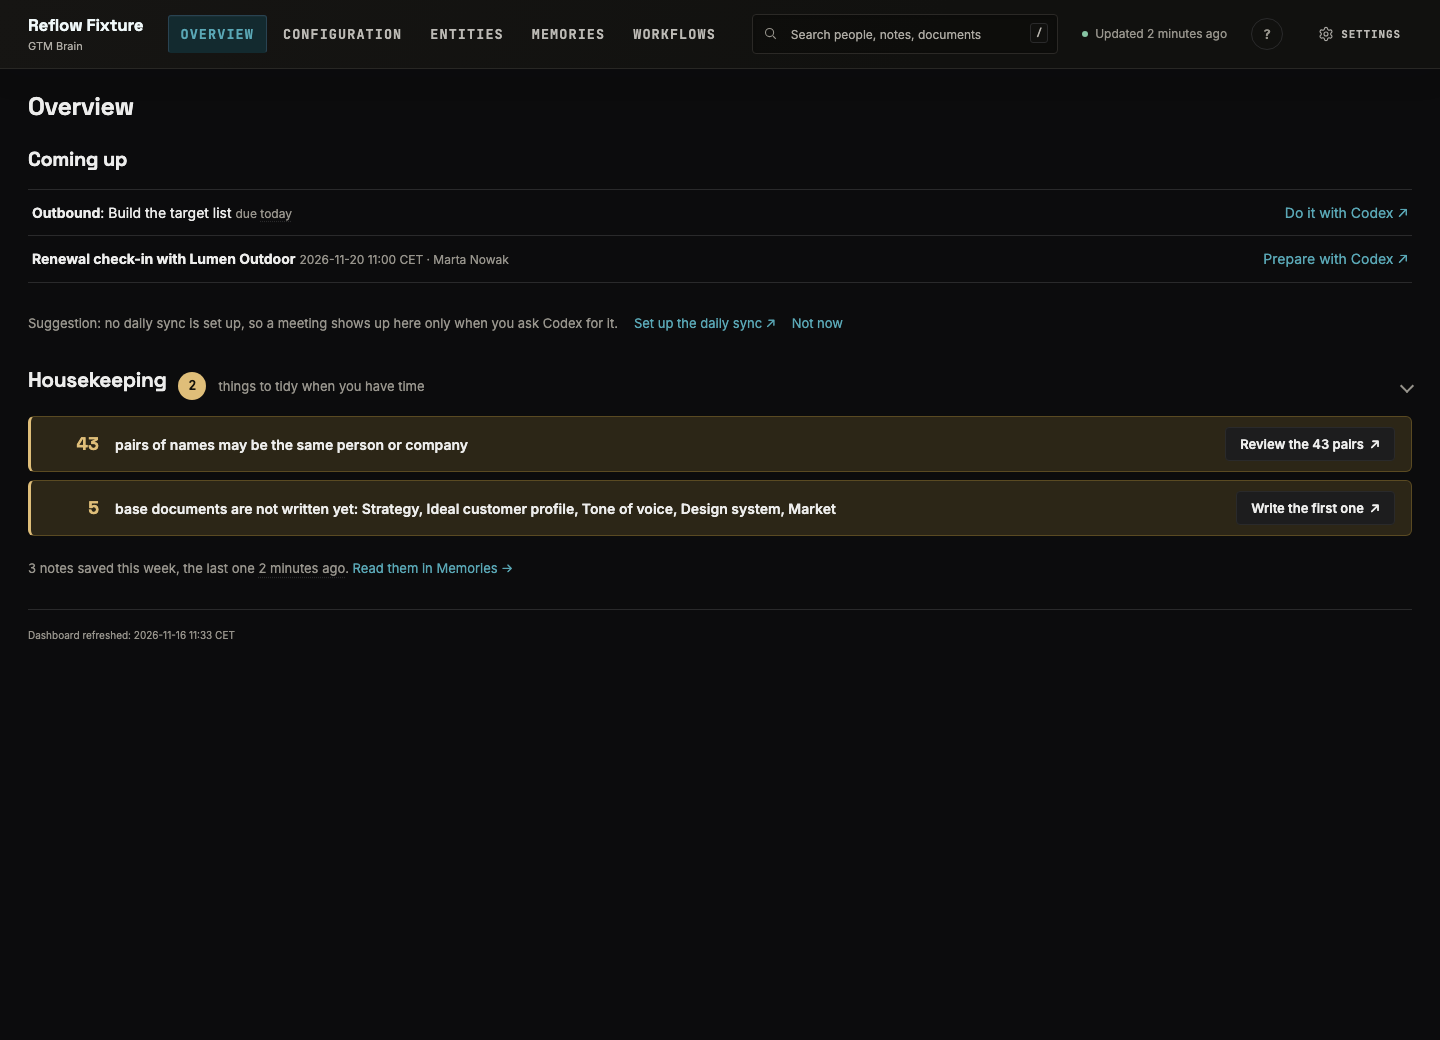
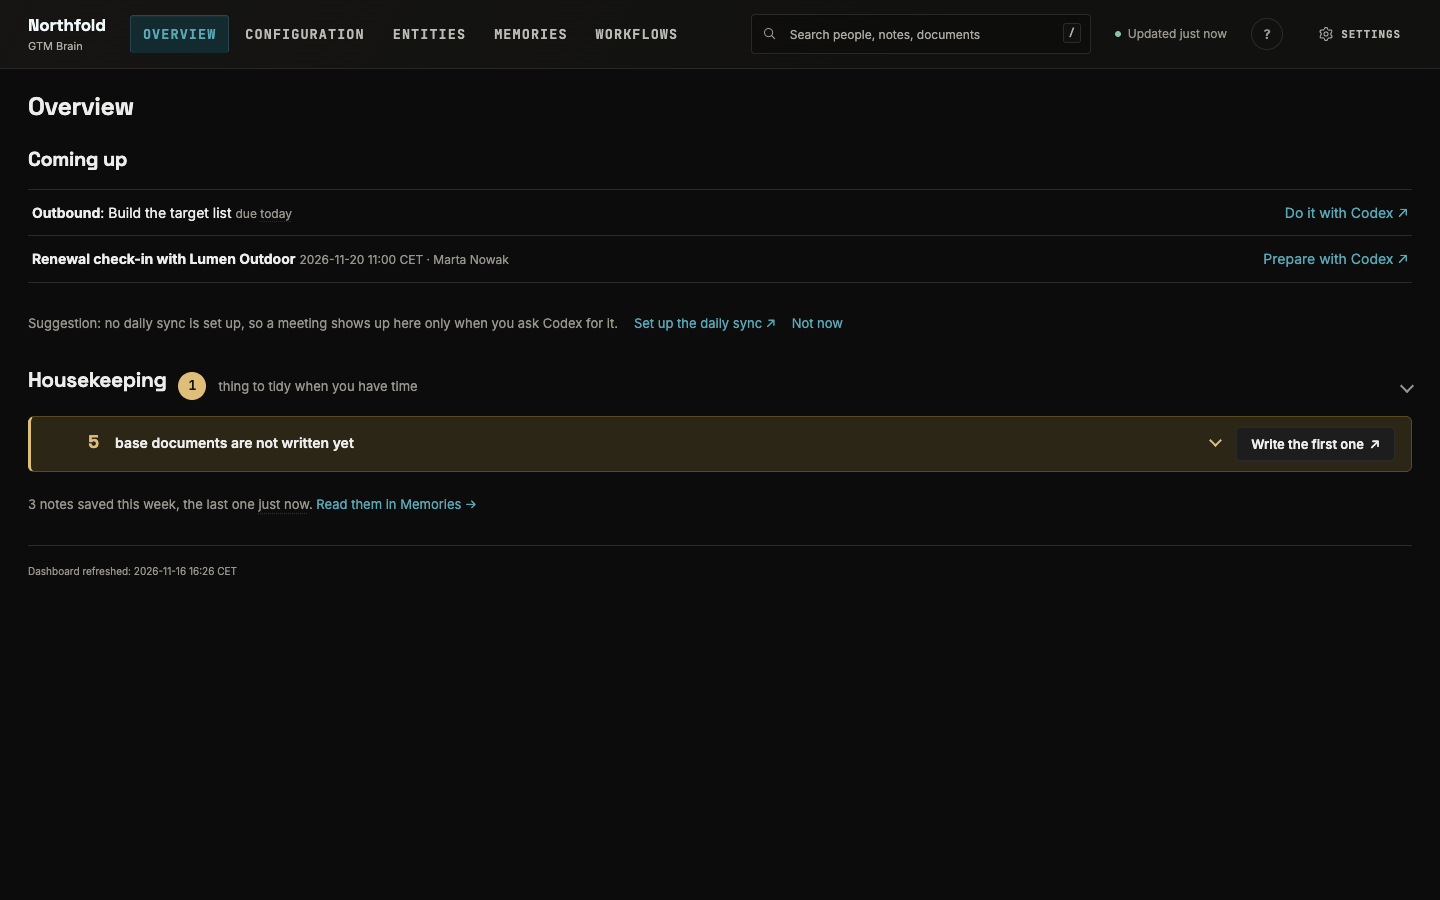
Memories tab: one filter box, When and Show; the rest behind More filters
The toolbar keeps the filter box, When and Show. Kind, Who, Person or company,
Topic and Project move into a More filters disclosure that is closed at first,
shows a count of the folded filters in use, and sits beside one Clear.
Dashboard screenshots retaken from the current UI on the fixture brain, which
is now named Northfold; README gains Rules, Schema and an open document.

diff --git a/plugins/gtm-brain/scripts/gtm-brain-render/home.template.html b/plugins/gtm-brain/scripts/gtm-brain-render/home.template.html
@@ -344,7 +344,7 @@ time.pl-when{white-space:nowrap;cursor:help;text-decoration:underline dotted var
 .mem-form textarea{font:inherit;font-size:14.5px;line-height:1.55;color:var(--ink);background:var(--surface);border:1px solid var(--rule);border-radius:4px;padding:9px 11px;width:100%;box-sizing:border-box;resize:vertical;min-height:96px}.mem-form textarea:focus-visible{outline:2px solid var(--accent);outline-offset:1px;border-color:var(--accent)}.mem-cands{display:flex;flex-wrap:wrap;gap:6px 8px;align-items:center;margin:0 0 12px}.mem-cands .filter-pill:disabled{opacity:.55;cursor:default}
 .mem-history{margin:4px 0 10px;padding:0 0 0 18px;font-size:13.5px;color:var(--muted);max-width:75ch}.mem-history li{margin:4px 0}.mem-hist,.mem-same .linkbtn{font-size:12.5px}.mem-flash{margin:0 0 12px}
 @media(max-width:900px){.mem-menu{right:auto;left:0}}
-.mem-filters{align-items:flex-start}.mem-filters .explore-search input{padding-left:34px;max-width:none}.mem-selects{display:flex;flex-wrap:wrap;gap:8px 14px;flex-basis:100%}.mem-card{padding:16px 0}.mem-card .pl-text{font-size:15px;line-height:1.6;margin:6px 0 6px;max-width:86ch}.mem-card.focus{box-shadow:inset 3px 0 0 var(--accent);padding-left:14px;background:var(--surface)}.mem-topic{color:var(--muted);font-size:11.5px}.mem-topic:before{content:"in ";opacity:.7}.mem-people{display:flex;flex-wrap:wrap;gap:6px;margin:6px 0}.mem-people .tag{border:0;font:inherit;font-size:12px;cursor:pointer;background:var(--accent-soft);color:var(--accent)}.mem-people .tag:hover{box-shadow:inset 0 0 0 1px var(--accent)}.mem-older{display:block;margin:18px auto 4px;padding:9px 18px}.mem-docs{margin-top:26px;padding-top:14px;border-top:1px solid var(--rule)}
+.mem-filters{display:block}.mem-filters .explore-search input{padding-left:34px;max-width:none}.mem-top{display:flex;flex-wrap:wrap;align-items:flex-end;gap:10px 12px}.mem-top .explore-search{flex:1 1 320px}.mem-filters label{flex-direction:column;align-items:stretch;gap:3px;font-size:11px}.mem-filters select,.mem-filters label input{font-size:12.5px;border-radius:4px;min-width:150px}.mem-filters select:focus-visible,.mem-filters label input:focus-visible,.mem-morebtn:focus-visible,.mem-clear:focus-visible{outline:2px solid var(--accent);outline-offset:1px}.mem-morebtn{font:500 12.5px var(--body);color:var(--muted);background:var(--surface);border:1px solid var(--rule);border-radius:4px;padding:7px 12px;cursor:pointer;white-space:nowrap}.mem-morebtn:after{content:"";display:inline-block;width:6px;height:6px;margin:0 0 2px 8px;border-right:1.5px solid currentColor;border-bottom:1.5px solid currentColor;transform:rotate(45deg)}.mem-morebtn[aria-expanded="true"]:after{transform:rotate(-135deg);margin-bottom:-2px}.mem-morebtn:hover{color:var(--ink);border-color:var(--muted)}.mem-morebtn.on{color:var(--accent);border-color:var(--accent);background:var(--accent-soft)}.mem-clear{padding:7px 2px;font-size:12.5px}.mem-clear[hidden],.mem-fold[hidden]{display:none}.mem-fold{display:flex;flex-direction:column;gap:12px;margin-top:12px;padding:12px 14px;border:1px solid var(--rule);border-radius:4px;background:var(--surface)}.mem-fold select,.mem-fold label input{background:var(--paper)}.mem-selects{display:flex;flex-wrap:wrap;gap:10px 14px}.mem-card{padding:16px 0}.mem-card .pl-text{font-size:15px;line-height:1.6;margin:6px 0 6px;max-width:86ch}.mem-card.focus{box-shadow:inset 3px 0 0 var(--accent);padding-left:14px;background:var(--surface)}.mem-topic{color:var(--muted);font-size:11.5px}.mem-topic:before{content:"in ";opacity:.7}.mem-people{display:flex;flex-wrap:wrap;gap:6px;margin:6px 0}.mem-people .tag{border:0;font:inherit;font-size:12px;cursor:pointer;background:var(--accent-soft);color:var(--accent)}.mem-people .tag:hover{box-shadow:inset 0 0 0 1px var(--accent)}.mem-older{display:block;margin:18px auto 4px;padding:9px 18px}.mem-docs{margin-top:26px;padding-top:14px;border-top:1px solid var(--rule)}
 .wf-card{padding:16px 0}.wf-card h3 .linkbtn{font-size:16px}.wf-about{margin:2px 0 8px;font-size:14px;max-width:80ch}.wf-wait{margin:8px 0 0;padding:8px 12px;border-left:3px solid var(--amber);background:var(--amber-soft);border-radius:3px;font-size:13px}.wf-detail{margin-top:14px;padding:14px 16px;background:var(--paper);border:1px solid var(--rule);border-radius:4px}.wf-detail h4{font-family:var(--label);font-size:10.5px;letter-spacing:.06em;text-transform:uppercase;color:var(--muted);margin:0 0 8px;font-weight:600}.wf-detail h4:not(:first-child){margin-top:16px}
 .wf-steps{list-style:none;counter-reset:step;margin:0;padding:0}.wf-steps li{counter-increment:step;position:relative;padding:5px 0 12px 38px;font-size:13.5px}.wf-steps li:before{content:counter(step);position:absolute;left:0;top:2px;width:24px;height:24px;border-radius:50%;border:1px solid var(--rule);display:grid;place-items:center;font-family:var(--mono);font-size:11px;color:var(--muted);background:var(--surface)}.wf-steps li:not(:last-child):after{content:"";position:absolute;left:12px;top:28px;bottom:0;width:1px;background:var(--rule)}.wf-steps li.here:before{border-color:var(--green);color:var(--green);background:var(--green-soft)}.wf-steps li.here>span:first-child{font-weight:600}
 .cfg-tabs{display:flex;gap:4px;flex-wrap:wrap;margin:0 0 18px;border-bottom:1px solid var(--rule)}.cfg-tabs button{display:inline-flex;align-items:center;gap:8px;border:0;border-bottom:2px solid transparent;background:none;color:var(--muted);font:500 14px var(--body);padding:10px 14px;margin-bottom:-1px;cursor:pointer}.cfg-tabs button:hover{color:var(--ink)}.cfg-tabs button.on{color:var(--ink);border-bottom-color:var(--accent);font-weight:650}.cfg-flag{font-size:11px;font-weight:600;color:var(--amber);background:var(--amber-soft);border-radius:3px;padding:1px 7px}
@@ -1573,9 +1573,10 @@ function openEntity(id){show("entities");if(!exReady)renderEntitiesTab();entSele
 /* The picked entity is part of the address (#view=entities&e=<id>), so Back, Forward and a copied link work. */
 const entRouteState=routeState;routeState=()=>{const s=entRouteState();if(s.view==="entities"&&exSel)s.e=exSel;return s};
 const entRestoreRoute=restoreRoute;restoreRoute=()=>{entRestoreRoute();if(typeof URLSearchParams==="undefined"||view!=="entities"||!PL||!exReady)return;const id=new URLSearchParams(String(location.hash||"").slice(1)).get("e")||"";if(id!==exSel)entSelect(id,false)};
-/* Memories: one timeline, newest first. A filter box and a few plain filters; questions and decisions are filters of
-   the same list. The page carries the newest notes and fetches the whole list once a filter or "Show older" needs it. */
-const PM_PAGE=40;let pmFiltersDrawn=false,pmAll=null,pmLoading=null,pmError=false,pmLimit=PM_PAGE,pmFocus="";const pmF={q:"",kind:"",who:"",topic:"",project:"",tag:"",entity:"",period:"",state:"in force"};
+/* Memories: one timeline, newest first. A filter box, When and Show; every other filter (kind, who, person or
+   company, topic, project) sits behind "More filters", closed until asked for, with a count of the ones in use and
+   one Clear. Questions and decisions are filters of the same list. The page carries the newest notes and fetches the whole list once a filter or "Show older" needs it. */
+const PM_PAGE=40;let pmFiltersDrawn=false,pmMoreOpen=false,pmAll=null,pmLoading=null,pmError=false,pmLimit=PM_PAGE,pmFocus="";const pmF={q:"",kind:"",who:"",topic:"",project:"",tag:"",entity:"",period:"",state:"in force"};
 let pmFound={q:"",ids:null,loading:false},pmFindTimer=null;
 /* The filter box asks the server's search for every note that matches (the whole text, with its stemming), and the
    page adds what its own scorer matches in the list it holds. */
@@ -1616,20 +1617,28 @@ function renderNotesTab(){
   const opt=(v,label,sel)=>`<option value="${esc(v)}"${sel===v?" selected":""}>${esc(label)}</option>`;
   const authors=[...new Set(source.flatMap(n=>n.authors||[]))].sort(),topics=D.contexts.filter(c=>source.some(n=>n.context===c.slug)),projects=D.projects||[];
   const kinds=[["","Everything"],["note","Notes"],["decision","Decisions"],["question","Questions"],...M.kinds.filter(k=>!["note","decision","question"].includes(k)).map(k=>[k,pmKindWord(k)+"s"])];
-  $("#pm-filters").innerHTML=searchField("pm-q","Filter notes","Filter notes by any words",pmF.q)+
+  const sel=(id,label,options,v)=>`<label>${esc(label)} <select id="${id}">${options.map(([o,l])=>opt(o,l,v)).join("")}</select></label>`;
+  $("#pm-filters").innerHTML=`<div class="mem-top">`+searchField("pm-q","Filter notes","Filter notes by any words",pmF.q)+
+   sel("pm-period","When",[["","Any time"],["7","This week"],["30","This month"],["90","Last 3 months"],["365","This year"]],pmF.period)+
+   sel("pm-state","Show",[["in force","Current notes"],["replaced","Replaced notes"],["withdrawn","Withdrawn notes"],...(source.some(n=>n.sameAs&&n.state==="in force")||pmF.state==="copies"?[["copies","Copies of earlier notes"]]:[]),["","All of them"]],pmF.state)+
+   `<button type="button" class="mem-morebtn" id="pm-more-btn" aria-expanded="${pmMoreOpen}" aria-controls="pm-more-panel">${esc("More filters")}</button><button type="button" class="linkbtn mem-clear" id="pm-clear" aria-label="${esc("Clear all filters")}" hidden>${esc("Clear")}</button></div>`+
+   `<div class="mem-fold" id="pm-more-panel" role="group" aria-label="${esc("More filters")}"${pmMoreOpen?"":" hidden"}>`+
    `<div class="explore-filters" role="group" aria-label="${esc("Kind of note")}">${kinds.map(([k,label])=>`<button type="button" class="filter-pill${pmF.kind===k?" selected":""}" data-pm-kind="${esc(k)}" aria-pressed="${pmF.kind===k}">${esc(label)}</button>`).join("")}</div>`+
    `<div class="mem-selects"><label>${esc("Who")} <select id="pm-who">${opt("","Anyone",pmF.who)}${authors.map(a=>opt(a,authorName(a),pmF.who)).join("")}</select></label>`+
-   `<label>${esc("When")} <select id="pm-period">${[["","Any time"],["7","This week"],["30","This month"],["90","Last 3 months"],["365","This year"]].map(([v,l])=>opt(v,l,pmF.period)).join("")}</select></label>`+
    `<label>${esc("Person or company")} <input id="pm-entity" type="search" list="pm-entity-list" autocomplete="off" placeholder="${esc("Anyone")}" value="${esc(pmF.entity)}"><datalist id="pm-entity-list">${PL.entities.rows.slice(0,3000).map(e=>`<option value="${esc(e.name)}">`).join("")}</datalist></label>`+
-   (topics.length>1?`<label>${esc("Topic")} <select id="pm-topic">${opt("","Any topic",pmF.topic)}${topics.map(c=>opt(c.slug,contextTitle(c),pmF.topic)).join("")}</select></label>`:"")+
-   (projects.length?`<label>${esc("Project")} <select id="pm-project">${opt("","Any project",pmF.project)}${projects.map(p=>opt(p.slug,p.title,pmF.project)).join("")}</select></label>`:"")+
-   `<label>${esc("Show")} <select id="pm-state">${[["in force","Current notes"],["replaced","Replaced notes"],["withdrawn","Withdrawn notes"],...(source.some(n=>n.sameAs&&n.state==="in force")||pmF.state==="copies"?[["copies","Copies of earlier notes"]]:[]),["","All of them"]].map(([v,l])=>opt(v,l,pmF.state)).join("")}</select></label></div>`;
+   (topics.length>1?sel("pm-topic","Topic",[["","Any topic"],...topics.map(c=>[c.slug,contextTitle(c)])],pmF.topic):"")+
+   (projects.length?sel("pm-project","Project",[["","Any project"],...projects.map(p=>[p.slug,p.title])],pmF.project):"")+
+   `</div></div>`;
  }
+ /* The count on "More filters" is the folded filters in use; Clear shows as soon as anything narrows the list. */
+ const filtered=!!(pmF.q||pmF.kind||pmF.who||pmF.topic||pmF.project||pmF.tag||pmF.entity||pmF.period||pmF.state!=="in force"),folded=[pmF.kind,pmF.who,pmF.entity.trim(),pmF.topic,pmF.project,pmF.tag].filter(Boolean).length;
+ const moreBtn=$("#pm-more-btn"),clearBtn=$("#pm-clear");
+ if(moreBtn){moreBtn.textContent="More filters"+(folded?" ("+folded+")":"");moreBtn.setAttribute("aria-expanded",String(pmMoreOpen));moreBtn.classList?.toggle("on",folded>0)}
+ if(clearBtn)clearBtn.hidden=!filtered;
  const rows=pmFiltered(source),partial=!pmAll&&M.total>M.first.length;
  if(pmF.q.trim()){const tokens=fzWords(pmF.q).map(x=>x.w),score=new Map(rows.map(n=>[n.id,(fzMatch(tokens,[[n.text,1]])?.score||0)+(pmFound.ids?.has(n.id)?40:0)]));rows.sort((a,b)=>score.get(b.id)-score.get(a.id)||String(b.at).localeCompare(String(a.at)))}
  if(pmFocus){const at=rows.findIndex(n=>n.id===pmFocus);if(at>0)rows.unshift(rows.splice(at,1)[0])}
  if(partial&&rows.length<pmLimit&&LIVE&&!pmError)pmLoad();
- const filtered=!!(pmF.q||pmF.kind||pmF.who||pmF.topic||pmF.project||pmF.tag||pmF.entity||pmF.period||pmF.state!=="in force");
  $("#pm-list").innerHTML=(pmFlash?`<p class="ent-flash mem-flash" role="status">${esc(pmFlash.text)}</p>`:"")+rows.slice(0,pmLimit).map(pmRow).join("")+(rows.length>pmLimit?`<button class="btn quiet pl-more mem-older" data-pm-more>${esc("Show older")} (${rows.length-pmLimit} ${esc("more")})</button>`:partial&&LIVE&&!pmError&&!pmLoading&&rows.length?`<button class="btn quiet pl-more mem-older" data-pm-more>${esc("Show older")}</button>`:"")||`<p class="empty">${esc(pmLoading?"Loading notes…":filtered?"No note matches these filters. Remove one, or try other words.":"Nothing saved yet. Tell Codex something worth remembering, for example \"remember that Acme renews in March\".")}</p>`;
  const shown=Math.min(rows.length,pmLimit);
  $("#pm-status").textContent=pmF.q.trim()&&(pmFound.loading||pmLoading)?`Searching all ${M.total} notes…`:partial?(pmLoading?`Showing ${shown} of the ${M.first.length} newest notes. Loading all ${M.total}…`:pmError||!LIVE?`Showing ${shown} of the ${M.first.length} newest notes. ${LIVE?"The full list could not be loaded; refresh the dashboard to retry.":"Open the live dashboard to filter all "+M.total+" notes."}`:`Showing the ${shown} newest of ${M.total} notes.`):`Showing ${shown} of ${rows.length} ${rows.length===1?"note":"notes"}${rows.length!==M.total?" ("+M.total+" in all)":""}.`;
@@ -1638,9 +1647,13 @@ function renderNotesTab(){
 }
 /* Every name on the page opens the Entities pane (#view=entities&e=<id>). */
 function openEntityById(id){if(typeof openEntity==="function"&&PL?.entities?.rows?.some(e=>e.id===id)){openEntity(id);return true}return false}
+/* Clear: back to the list as it opens (current notes, any time, no words). "More filters" stays as it was. */
+function pmClear(){Object.assign(pmF,{q:"",kind:"",who:"",topic:"",project:"",tag:"",entity:"",period:"",state:"in force"});pmFocus="";pmLimit=PM_PAGE;pmFiltersDrawn=false;pmFind();renderNotesTab();$("#pm-q")?.focus?.()}
 function openNote(id){pmFocus=id;Object.assign(pmF,{q:"",kind:"",who:"",topic:"",project:"",tag:"",entity:"",period:"",state:""});pmLimit=PM_PAGE;pmFiltersDrawn=false;show("notes");renderNotesTab();if(!pmAll&&!(PL?.memories?.first||[]).some(n=>n.id===id))pmLoad()}
 document.addEventListener("click",e=>{const t=e.target;if(!t?.closest)return;
- const k=t.closest("[data-pm-kind]");if(k){pmF.kind=k.dataset.pmKind;pmLimit=PM_PAGE;pmFiltersDrawn=false;renderNotesTab();return}
+ const k=t.closest("[data-pm-kind]");if(k){const kind=k.dataset.pmKind;pmF.kind=kind;pmLimit=PM_PAGE;pmFiltersDrawn=false;renderNotesTab();[...document.querySelectorAll("#pm-filters [data-pm-kind]")].find(b=>b.dataset.pmKind===kind)?.focus();return}
+ if(t.closest("#pm-more-btn")){pmMoreOpen=!pmMoreOpen;const panel=$("#pm-more-panel");if(panel)panel.hidden=!pmMoreOpen;renderNotesTab();return}
+ if(t.closest("#pm-clear")){pmClear();return}
  const ent=t.closest("[data-entity-id]");if(ent){openEntityById(ent.dataset.entityId);return}});
 /* Workflows: each one a card in plain words (what it does, whether it is on, what starts it, how its last run went);
    a click shows its steps as a numbered path with the current step marked, and its runs. The file's own header stays in Details. */

diff --git a/frontend/dashboard/e2e/tests/tabs.e2e.ts b/frontend/dashboard/e2e/tests/tabs.e2e.ts
@@ -236,14 +236,58 @@ test('Memories is one timeline, newest first; a replaced note shows as replaced;
   await expect(old).toContainText('replaced');
   await expect(old).toContainText(f.correction.new);
   await screen.getByLabel('Show').selectOption('Current notes');
-  // the person filter keeps only the notes about that person
+  // the person filter sits behind More filters and keeps only the notes about that person
   const status = browser.locator('#pm-status');
   const before = await status.textContent();
+  await screen.getByRole('button', 'More filters').tap();
   await screen.getByLabel('Person or company').fill(f.person.name);
   await expect(status).toContainText(`Showing ${f.person.notes.length} of ${f.person.notes.length} notes`);
   await expect(browser.locator('#pm-list article.pl-note .pl-text')).toHaveText(f.person.notes);
   await screen.getByLabel('Person or company').fill('');
   await expect(status).toHaveText(before ?? '');
+});
+
+test('Memories keeps the extra filters behind More filters: closed at first, a count when one is in use, one Clear', async ({ app, screen, browser }) => {
+  const f = fixture(app.baseUrl);
+  await app.open('/');
+  await screen.getByRole('navigation', 'Main navigation').getByRole('button', 'Memories').tap();
+  await expect(browser.locator('#pm-list article.pl-note').first()).toBeVisible();
+  // what is always there: the filter box, When and Show
+  await expect(screen.getByLabel('Filter notes')).toBeVisible();
+  await expect(screen.getByLabel('When')).toBeVisible();
+  await expect(screen.getByLabel('Show')).toBeVisible();
+  const more = browser.locator('#pm-more-btn');
+  const clear = screen.getByRole('button', 'Clear all filters');
+  await expect(more).toHaveText('More filters');
+  await expect(more).toHaveAttribute('aria-expanded', 'false');
+  await expect(screen.getByLabel('Person or company')).toBeHidden();
+  await expect(screen.getByRole('button', 'Decisions')).toBeHidden();
+  await expect(clear).toBeHidden();
+  const status = browser.locator('#pm-status');
+  const rows = browser.locator('#pm-list article.pl-note');
+  const before = await rows.count();
+  // open it, pick a person: the count says one filter is in use
+  await more.tap();
+  await expect(more).toHaveAttribute('aria-expanded', 'true');
+  await screen.getByLabel('Person or company').fill(f.person.name);
+  await expect(more).toHaveText('More filters (1)');
+  await expect(status).toContainText(`Showing ${f.person.notes.length} of ${f.person.notes.length} notes`);
+  await screen.getByRole('button', 'Decisions').tap();
+  await expect(more).toHaveText('More filters (2)');
+  await expect(screen.getByRole('button', 'Decisions')).toHaveAttribute('aria-pressed', 'true');
+  // closed again, the count still tells that filters are in use
+  await more.tap();
+  await expect(screen.getByLabel('Person or company')).toBeHidden();
+  await expect(more).toHaveText('More filters (2)');
+  // one click puts the whole list back
+  await clear.tap();
+  await expect(more).toHaveText('More filters');
+  await expect(clear).toBeHidden();
+  await expect(rows).toHaveCount(before);
+  await expect(status).not.toContainText(`Showing ${f.person.notes.length} of`);
+  await more.tap();
+  await expect(screen.getByLabel('Person or company')).toHaveValue('');
+  await expect(screen.getByRole('button', 'Everything')).toHaveAttribute('aria-pressed', 'true');
 });
 
 test('Workflows shows each one as a card in plain words; a click shows its steps and its runs', async ({ app, screen, browser }) => {

diff --git a/README.md b/README.md
@@ -202,6 +202,8 @@ Four things, read at the start of every chat.
 - **What a rule cannot do:** start work ("whenever X, do Y" is offered as a workflow), switch
   off APPROVE or the protected files, or move files that already exist.
 
+![The Rules part of the Configuration tab: each rule as a row to open, with a filter box and the two groups, where things go and where Codex looks first](diagrams/screenshots/dashboard-rules.png)
+
 #### Schema
 
 `configuration/schema.md`: what the brain keeps about each kind.
@@ -222,6 +224,8 @@ Four things, read at the start of every chat.
   "Anna joined Acme" also ends her job at Northwind. An unlisted type is saved as a plain note
   with an offer to add it.
 
+![The Schema part of the Configuration tab: one kind at a time, its fields with the required ones marked, and its relationships](diagrams/screenshots/dashboard-schema.png)
+
 #### Documents
 
 Base documents and your other documents. Detail: [DOCUMENTS.md](docs/DOCUMENTS.md).
@@ -239,6 +243,8 @@ Base documents and your other documents. Detail: [DOCUMENTS.md](docs/DOCUMENTS.m
   design system is also a page, `design-system.html`: one self-contained file shown on the
   dashboard's Visual tab and kept in step with `design-system.md`.
 
+![A document opened from the Configuration tab: the rendered text, its state, what work Codex reads it before, and the Edit button](diagrams/screenshots/dashboard-document.png)
+
 #### Settings
 
 `configuration/settings.yaml`. Beside company, team and tools it holds:
@@ -246,7 +252,7 @@ dashboard timing (`dashboard: always` or `on-demand`), the save reminder (`save_
 workflows on or off (`workflows: off`) and where big files go (`big_files: google-drive` or
 `local`). A change is shown first and applies only when you click APPROVE.
 
-![The Configuration tab: the company, the base documents with their state, and the rules and schema beside them](diagrams/screenshots/dashboard-configuration.png)
+![The Configuration tab: the company and the base documents with their state, with Rules and Schema as parts of the same tab](diagrams/screenshots/dashboard-configuration.png)
 
 ### Entities
 
@@ -309,7 +315,7 @@ Detail: [Contexts](plugins/gtm-brain/MANUAL.md#contexts) ·
 [Summaries](plugins/gtm-brain/MANUAL.md#summaries) ·
 [Chat capture](plugins/gtm-brain/MANUAL.md#chat-capture).
 
-![The Memories tab: notes on a timeline with their kind, topic and sources, filtered by type or searched](diagrams/screenshots/dashboard-memories.png)
+![The Memories tab: notes on a timeline with their topic and sources, a filter box with When and Show, and the other filters behind More filters](diagrams/screenshots/dashboard-memories.png)
 
 ### Workflows
 

diff --git a/docs/GUIDE.md b/docs/GUIDE.md
@@ -141,7 +141,7 @@ before it is saved, and kept as a short description, never as your messages. The
 
 Two stories show the brain end to end: an outreach lifecycle and a content loop. Build the demo
 brain with `node plugins/gtm-brain/test/live/demo-loops.mjs --brain-only` (a contributor
-checkout). It holds Reflow Fixture: a filled ICP, strategy and tone of voice, Zynt signals, customer
+checkout). It holds Northfold: a filled ICP, strategy and tone of voice, Zynt signals, customer
 words from two calls, and the project folders Outbound and Website. Open it as a Codex project.
 Nothing is sent or published. You tell Codex what Clay, Surfer, Gmail and Vercel returned. The same
 script without `--brain-only` types these sentences into Codex and checks every step. The summaries
